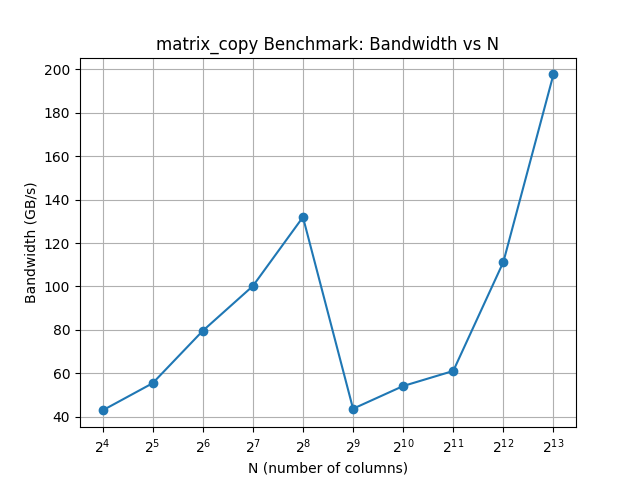
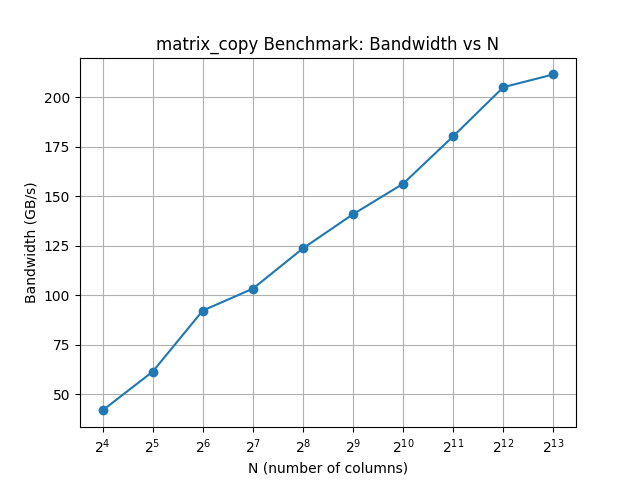
rerun benchmarks

diff --git a/assignments/02_assignment/02_results.md b/assignments/02_assignment/02_results.md
@@ -73,4 +73,4 @@ Benchmarking
 ```
 ![alt text](../../assignments/02_assignment/src/task4_benchmark_fullrange.png)
 ![alt text](../../assignments/02_assignment/src/task4_benchmark.png)
-Because the bandwidth was still increasing at `N=128`, we included a few more points up to `N=8192` to show the trend more clearly. The bandwidth increases as `N` increases, which is expected because larger matrices allow for better utilization of the GPU's memory bandwidth. However, the bandwidth reaches its peak at around `N=512` and then starts to decrease. Probably this is the point we reach hardware limits of the GPU.
+Because the bandwidth was still increasing at `N=128`, we included a few more points up to `N=8192` to show the trend more clearly. The bandwidth increases as `N` increases, which is expected because larger matrices allow for better utilization of the GPU's memory bandwidth.

diff --git a/fragen_tamino.md b/fragen_tamino.md
@@ -1,3 +1,7 @@
 - sollen wir auch `Dateiname 'git_link.txt' verwenden` und fehlende git tags ergänzen?
 - in 09 sind wir nicht mehr weitergekommen. können wir da hints bekommen? hatten keine abgabe
 - abgabe mit quellenangabe zu e.g. XDNA?
+
+- in assignment 2: 
+    - ist dieser nicht endende anstieg erwartet?
+    - für "4a (-0.5P.): Kernel unterstützt nur Zweierpotenzen": müssen tile sizes auch nicht-zweierpotenzen akzeptieren? da reicht ja nur `padding_mode=ct.PaddingMode.ZERO` nicht, oder?
